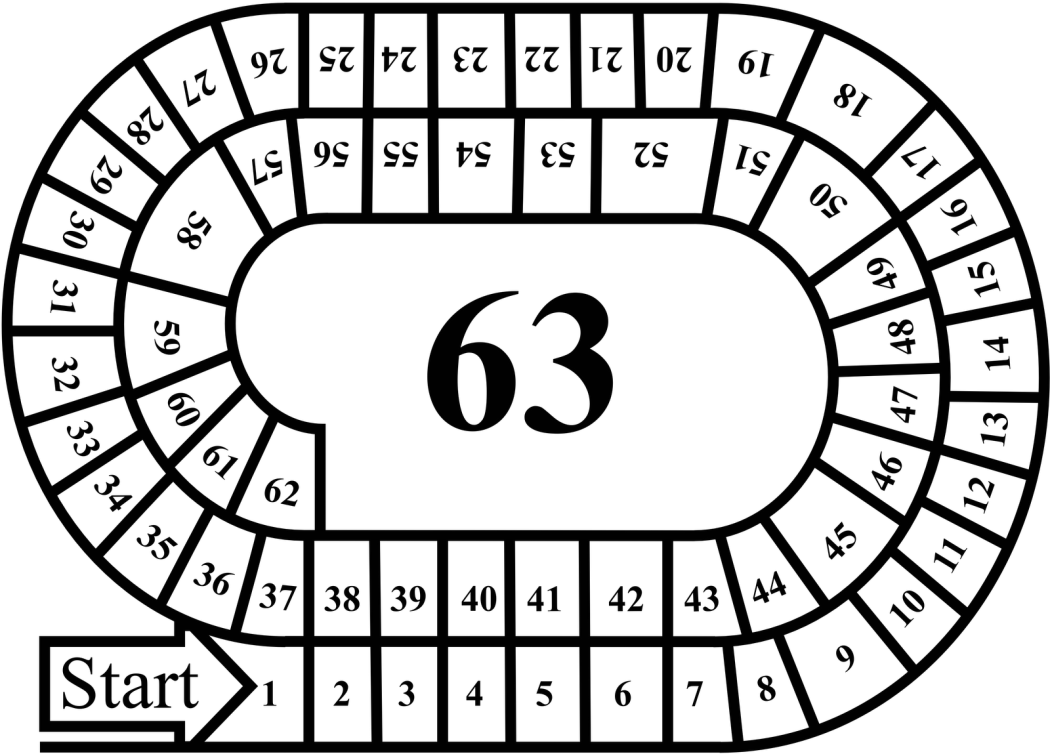
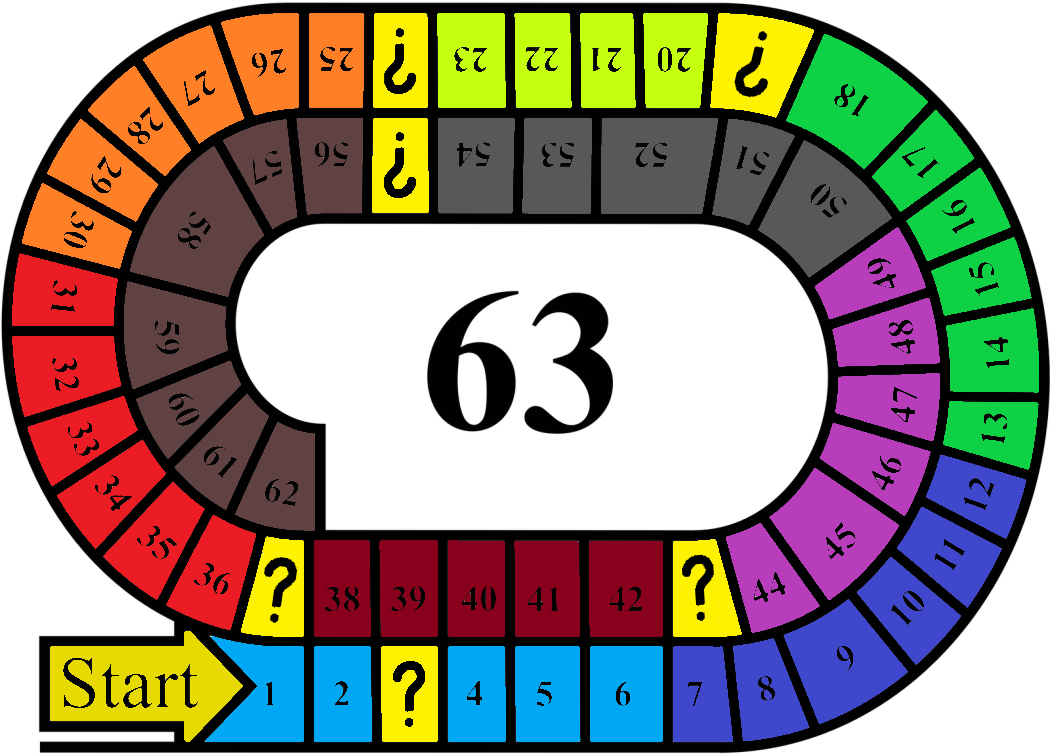
informatica les: fancy bord, minor changes

diff --git a/main.py b/main.py
@@ -56,6 +56,12 @@ worp = 0
 #declare where banna peels are
 peels = []
 
+#load images
+bord = pygame.image.load("bord.png")
+dice = pygame.image.load("dice.png")
+devilsDice = pygame.image.load("devils dice.png")
+peel = pygame.image.load("Banan.png")
+
 #function for normal dice or space
 def normal():
 
@@ -87,7 +93,7 @@ def devilTurn():
     elif beurt == 1:
       beurt = 0
 
-    print(f"player {beurt} heeft gewonnen")
+    print(f"player {beurt + 1} ({players[beurt]}) heeft gewonnen")
     pygame.quit()
     sys.exit()
 
@@ -151,6 +157,7 @@ def doBeurt():
       if roll == 0:
         peels.append(posities[beurt])
         placedPeel = True
+        print("someone landed on the peel")
       elif roll == 1:
         skip = True
         if debug:
@@ -160,7 +167,7 @@ def doBeurt():
           oponent = 1
         else:
           oponent = 0
-        print(f"player {oponent} ({players[oponent]}) will has been moved back 5 spaces, from {posities[oponent]}, to {posities[oponent] - 5}")
+        print(f"player {oponent + 1} ({players[oponent]}) will has been moved back 5 spaces, from {posities[oponent]}, to {posities[oponent] - 5}")
         posities[oponent] = posities[oponent] - 5
         if posities[oponent] < 0:
           posities[oponent] = 0
@@ -208,12 +215,6 @@ while True:
 
   #clear sceen from previous frame
   DISPLAYSURF.fill((255,255,255))
-
-  #load images
-  bord = pygame.image.load("bord.png")
-  dice = pygame.image.load("dice.png")
-  devilsDice = pygame.image.load("devils dice.png")
-  peel = pygame.image.load("placeholder50x50.png")
       
   #render images
   DISPLAYSURF.blit(bord, bord.get_rect())
@@ -221,7 +222,9 @@ while True:
   DISPLAYSURF.blit(devilsDice, (devilsDicePos[0], devilsDicePos[1]))
 
   for pos in peels:
-    DISPLAYSURF.blit(peel, vakjes[pos])
+    peelX = vakjes[pos][0] - 25
+    peelY = vakjes[pos][1] - 25
+    DISPLAYSURF.blit(peel, (peelX, peelY))
 
   #set a font to use, size 25
   font = pygame.font.SysFont(None, 25) 
@@ -312,7 +315,7 @@ while True:
           pygame.quit()
           sys.exit()
         
-  #somothing to do with the clock that makes pygame funcion as exected; leave here & ignore
+  #something to do with the clock that makes pygame funcion as expected; leave here & ignore
   clock.tick(60)
   
   #render prepared framebuffer to the screen      
